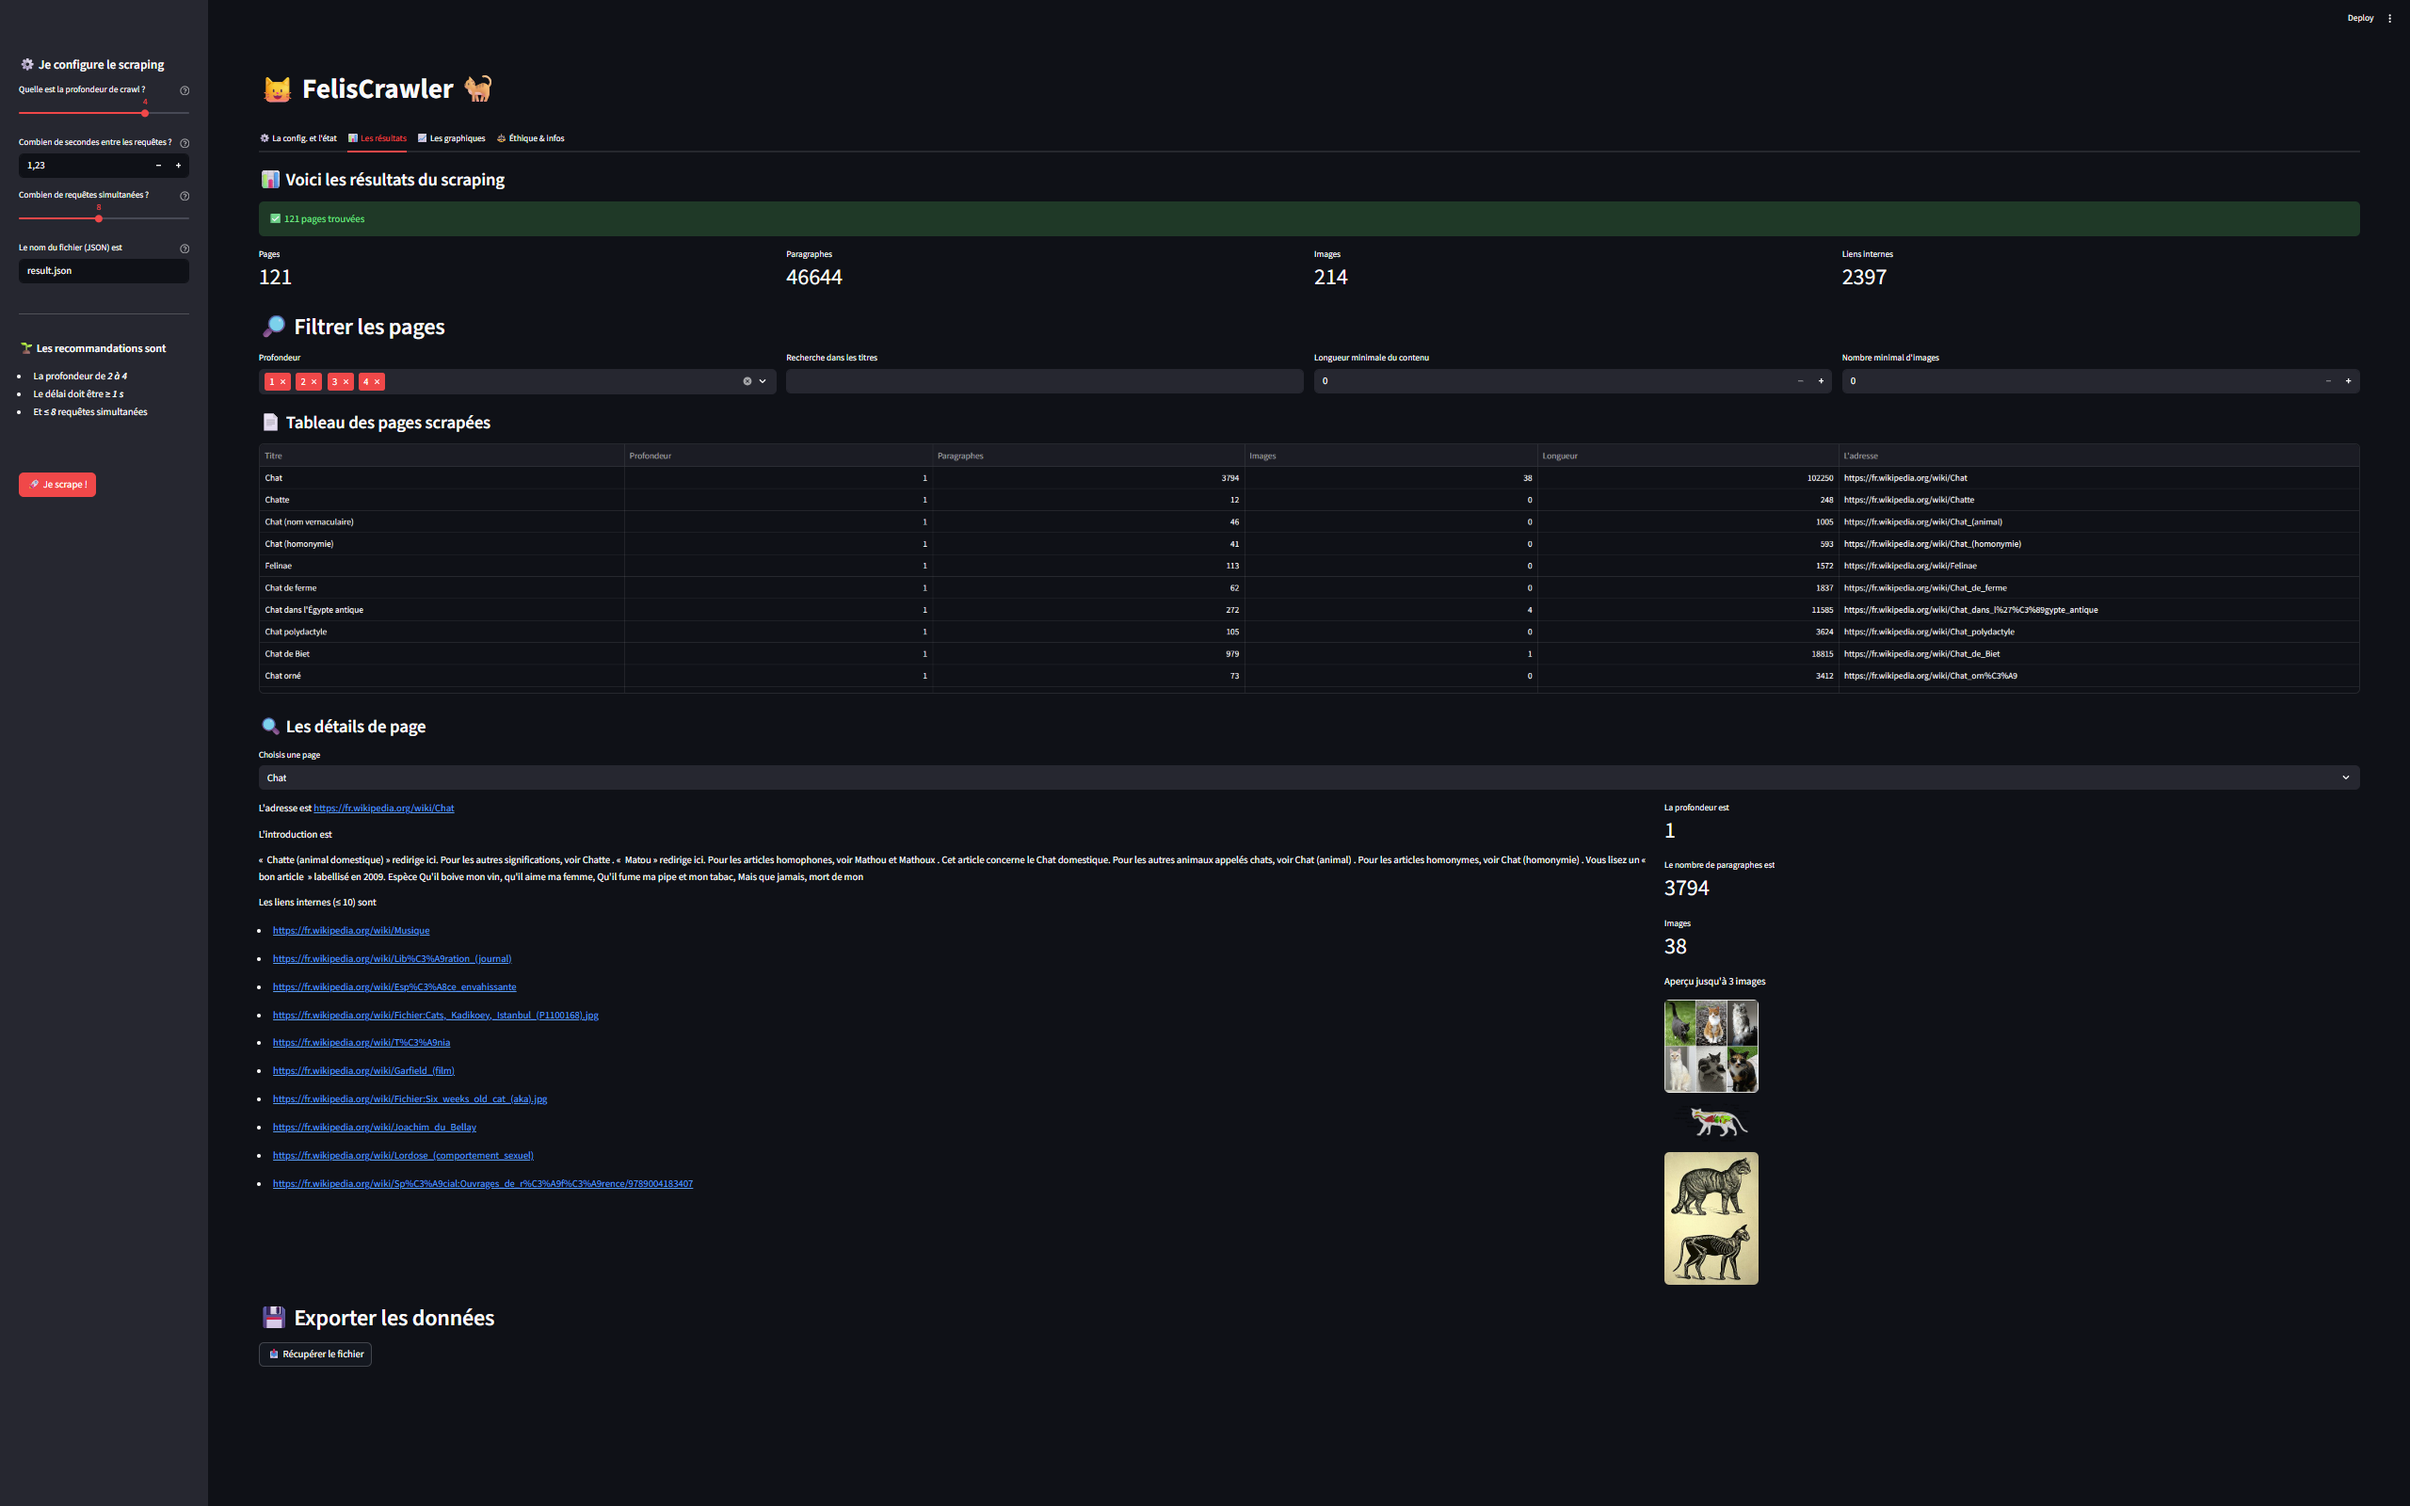
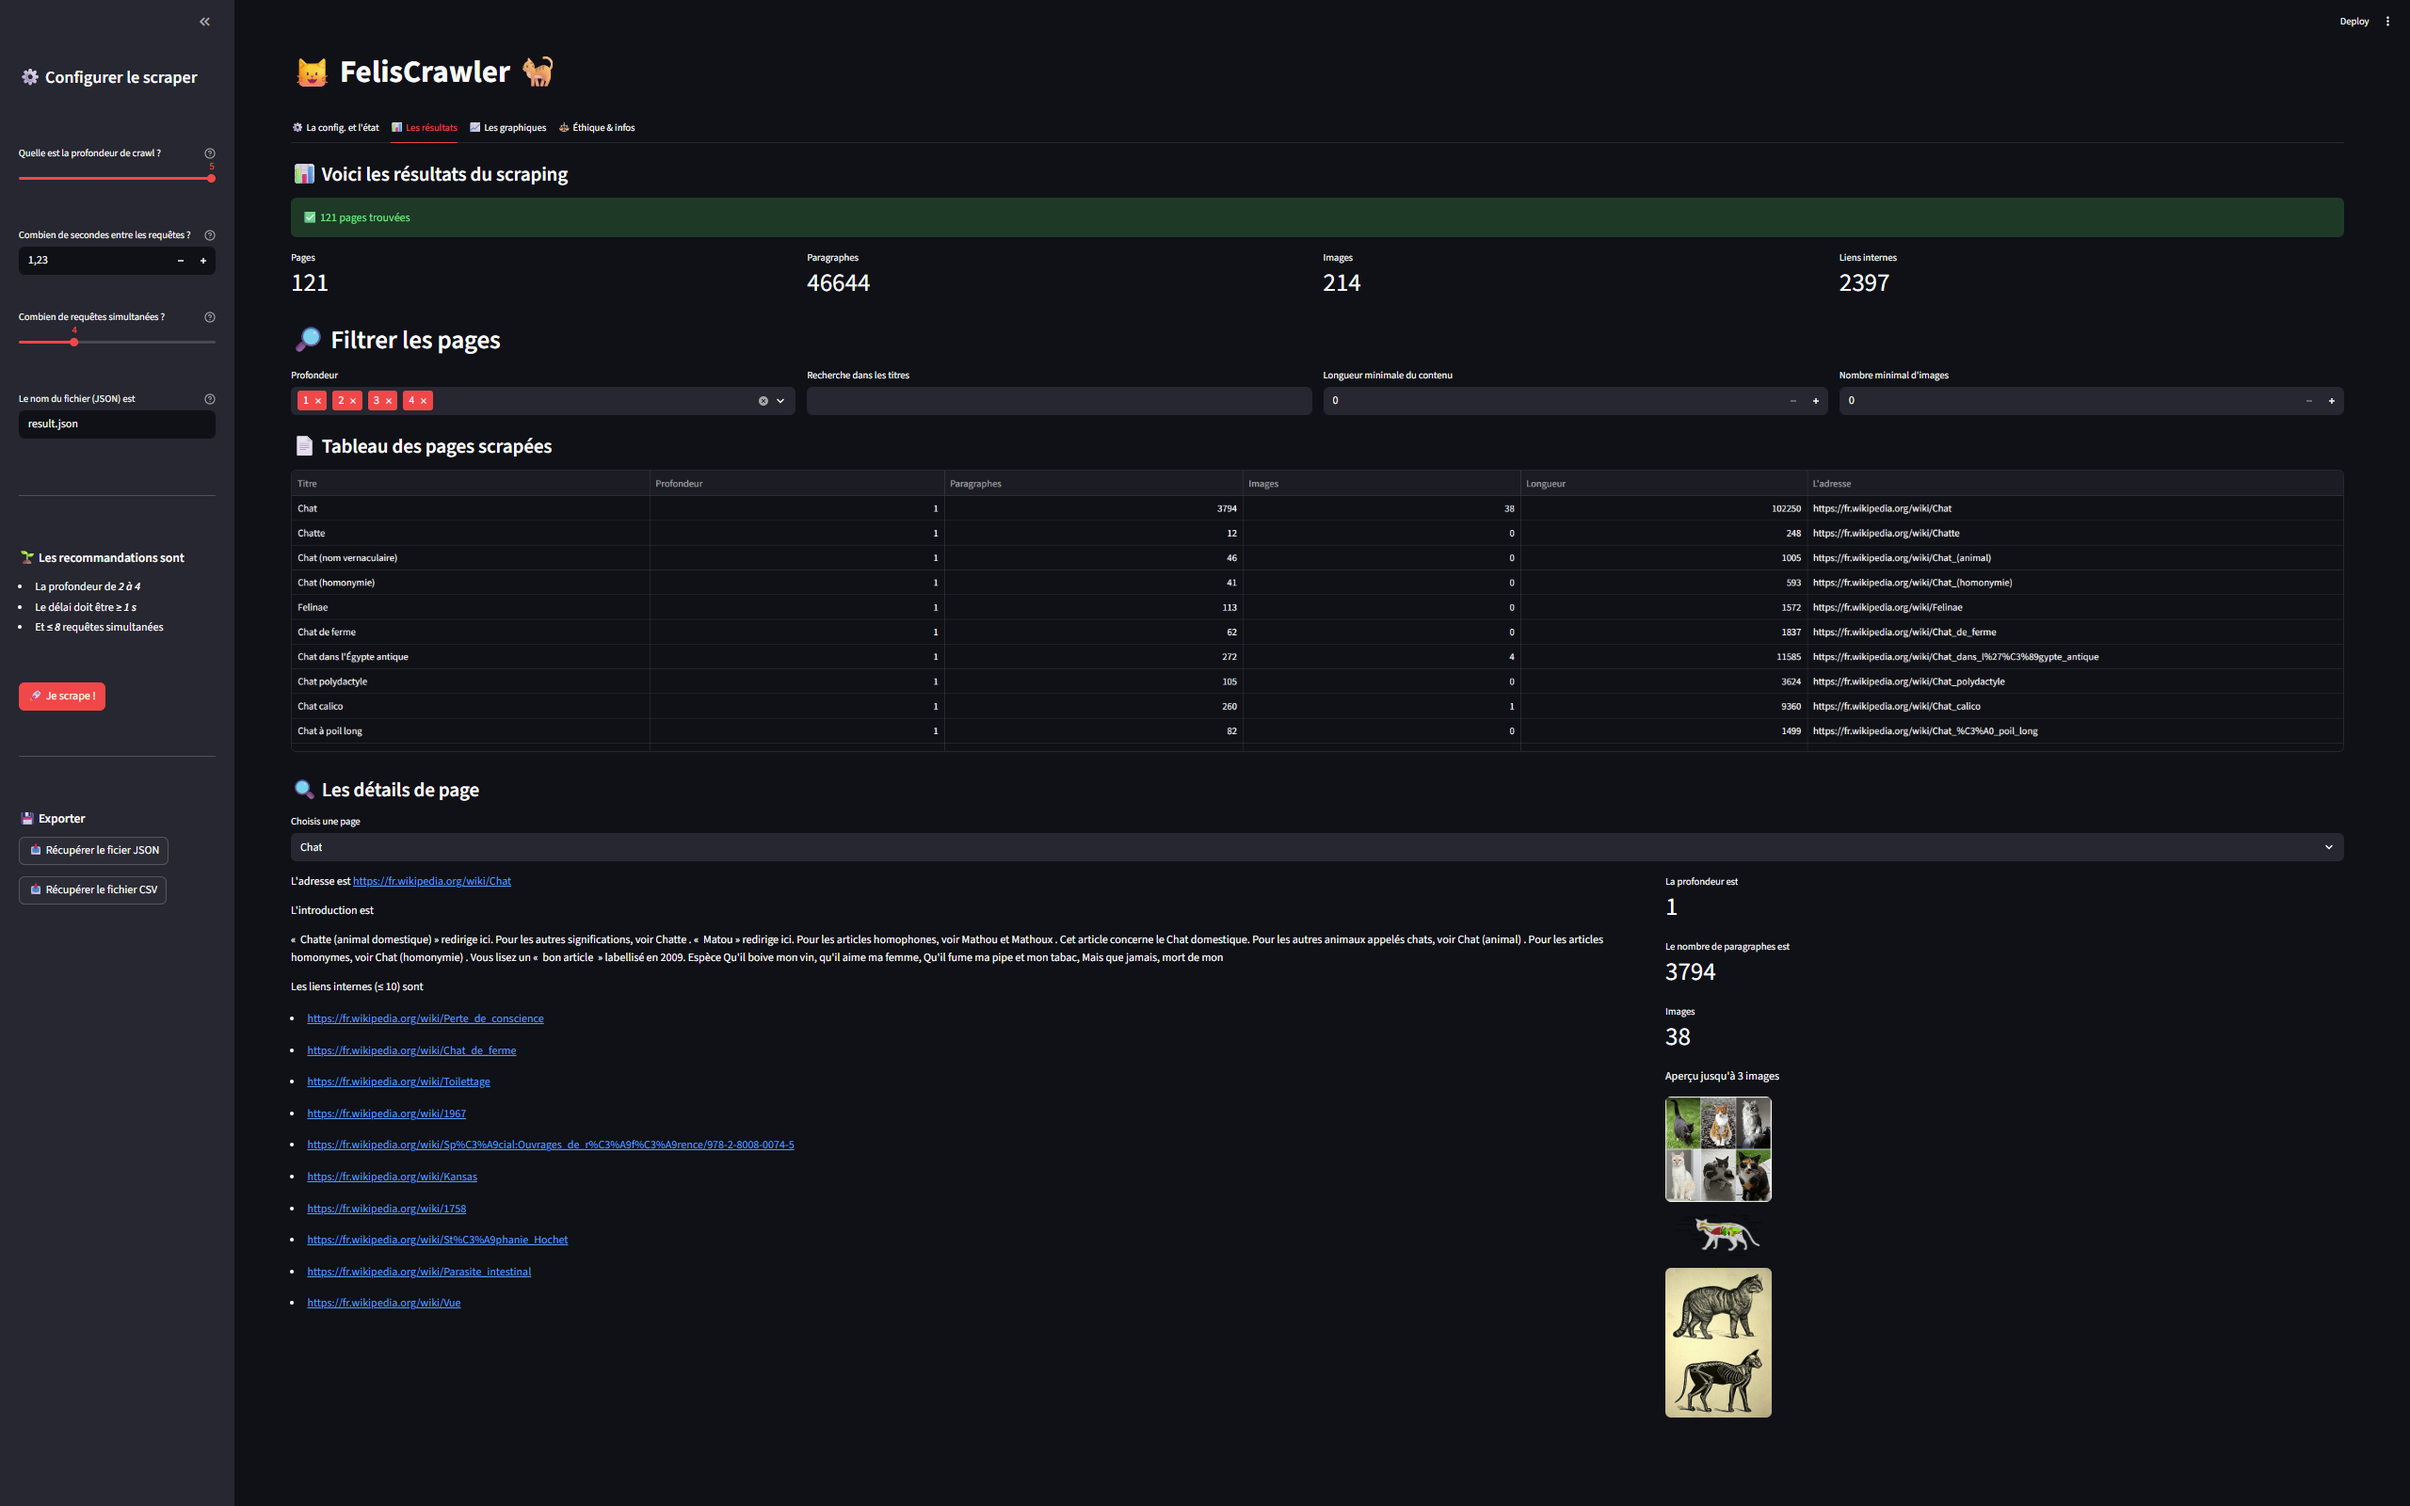
✨ FelisCrawler

diff --git a/projects/felisCrawler/wikipedia/wikipedia/spiders/app.py b/projects/felisCrawler/wikipedia/wikipedia/spiders/app.py
@@ -14,7 +14,7 @@ st.set_page_config(
     layout="wide"
 )
 
-st.title("🐱 FelisCrawler 🐈")
+st.title("🐱 **FelisCrawler** 🐈")
 st.markdown("")
 
 # Initialiser la session
@@ -23,8 +23,35 @@ if "scraping" not in st.session_state:
 if "last_output" not in st.session_state:
     st.session_state["last_output"] = None
 
+# État pour la fenêtre de confirmation de téléchargement
+if "show_download_modal" not in st.session_state:
+    st.session_state["show_download_modal"] = False
+if "download_info" not in st.session_state:
+    st.session_state["download_info"] = {}
+
+# Utilitaire pour nommer le CSV à partir du JSON
+def _csv_name(json_name: str) -> str:
+    try:
+        p = Path(json_name)
+        return str(p.with_suffix(".csv"))
+    except Exception:
+        return (json_name.rsplit(".", 1)[0] if "." in json_name else json_name) + ".csv"
+
+# Ouvre la modale de confirmation
+def _open_download_modal(file_name: str, kind: str, server_hint: str | None = None):
+    st.session_state["download_info"] = {
+        "kind": kind,
+        "file_name": file_name,
+        "icon": "https://upload.wikimedia.org/wikipedia/commons/c/c6/.csv_icon.svg" if kind == "csv"
+                else "https://upload.wikimedia.org/wikipedia/commons/c/c9/JSON_vector_logo.svg",
+        "server_hint": server_hint or ""
+    }
+    st.session_state["show_download_modal"] = True
+
 # Sidebar des paramètres
-st.sidebar.header("⚙ Je configure le scraping")
+st.sidebar.title("⚙ Configurer le scraper")
+st.sidebar.header(" ") # espacement
+st.sidebar.header(" ") # espacement
 
 depth_limit = st.sidebar.slider(
     "Quelle est la profondeur de crawl ?",
@@ -33,6 +60,8 @@ depth_limit = st.sidebar.slider(
     value    = 4,
     help     = "C'est le nombre de niveaux de liens à suivre. Plus c'est élevé, plus ça consomme de ressources."
 )
+
+st.sidebar.header(" ") # espacement
 
 download_delay = st.sidebar.number_input(
     "Combien de secondes entre les requêtes ?",
@@ -43,6 +72,8 @@ download_delay = st.sidebar.number_input(
     help       = "Temps d'attente entre chaque requête HTTP. Il est recommandé d'être ≥ 1 s pour respecter les serveurs."
 )
 
+st.sidebar.header(" ") # espacement
+
 concurrent_requests = st.sidebar.slider(
     "Combien de requêtes simultanées ?",
     min_value       =  1,
@@ -51,29 +82,38 @@ concurrent_requests = st.sidebar.slider(
     help            = "Plus il y a de requêtes en parallèle, plus le serveur est chargé."
 )
 
+st.sidebar.header(" ") # espacement
+
 output_file = st.sidebar.text_input(
     "Le nom du fichier (JSON) est",
     value   = "result.json",
     help    = "Nom du fichier JSON où sauvegarder les résultats du scraping."
 )
+st.sidebar.header(" ") # espacement
 
 st.sidebar.markdown("___")
+st.sidebar.markdown(" ") # Espacement
+st.sidebar.markdown(" ") # Espacement
 st.sidebar.markdown("### 🌱 Les recommandations sont")
 st.sidebar.markdown(
     "* La profondeur de **_2 à 4_**\n"
     "* Le délai doit être **_≥ 1 s_**\n"
     "* Et **_≤ 8_** requêtes simultanées\n"
 )
-st.sidebar.markdown("<br><br>", unsafe_allow_html=True)
-
+st.sidebar.markdown(" ") # Espacement
+st.sidebar.markdown(" ") # Espacement
+st.sidebar.markdown(" ") # Espacement
 # Bouton pour crawler
 if st.sidebar.button("🚀 Je scrape !", type="primary"):
     st.session_state["scraping"]   = True
     st.session_state["start_time"] = time.time()
 
+    output_file_csv = _csv_name(output_file)
+
     cmd = [
         "scrapy" , "runspider" , "wikichat_spider.py",
         "-O", output_file,
+        "-O", output_file_csv,  # sortie CSV en parallèle
         "-s", f"DEPTH_LIMIT={depth_limit}",
         "-s", f"DOWNLOAD_DELAY={download_delay}",
         "-s", f"CONCURRENT_REQUESTS={concurrent_requests}",
@@ -93,9 +133,12 @@ if st.sidebar.button("🚀 Je scrape !", type="primary"):
         progress       = 0
 
         try:
-            p = Path(output_file)
-            if p.exists():
-                p.unlink()
+            p_json = Path(output_file)
+            p_csv  = Path(output_file_csv)
+            if p_json.exists():
+                p_json.unlink()
+            if p_csv.exists():
+                p_csv.unlink()
         except Exception as _:
             pass
 
@@ -169,6 +212,14 @@ if output_path.exists():
                 })
 
             df = pd.DataFrame(df_data)
+
+            # fallback : garantir un CSV si Scrapy ne l'a pas écrit
+            try:
+                csv_fallback = _csv_name(output_file)
+                if len(df) and not Path(csv_fallback).exists():
+                    df.to_csv(csv_fallback, index=False, encoding="utf-8-sig")
+            except Exception:
+                pass
 
     except json.JSONDecodeError:
         st.error("❌ Le fichier de résultats est vide ou invalide. Lance un scraping.")
@@ -328,21 +379,12 @@ with tab_results:
                             except Exception:
                                 st.text(img)
 
-        st.markdown("## 💾 Exporter les données")
-        coldl1, coldl2 = st.columns(2)
-
-        with coldl1:
-            st.download_button(
-                label="📥 Récupérer le fichier",
-                data=json.dumps(data, indent=2, ensure_ascii=False),
-                file_name=f"scraping_{time.strftime('%Y%m%d_%H%M%S')}.json",
-                mime="application/json",
-            )
+        # (Section d'export retirée de l'onglet : déplacée dans la sidebar)
 
     else:
         st.info("# ℹ Il n'y a pas de résultat. Tu peux lancer le scraper.")
 
-# 3ème onglet : Les graphiques
+# 3ème onglet Les graphiques
 with tab_plots:
     st.subheader("📈 Les pages scrapées")
 
@@ -418,5 +460,57 @@ with tab_ethics:
 
     st.markdown("___")
     st.markdown(
-        "🐱 **FelisCrawler** | Scrapy et Streamlit — C'est un projet pédagogique. Il n'est pas destiné à une exploitation massive."
+        "🐱 **FelisCrawler** | _Scrapy et Streamlit_ — C'est un projet pédagogique. Il n'est pas destiné à une exploitation massive."
     )
+
+# Récupérer les données
+st.sidebar.markdown(" ")
+st.sidebar.markdown("___")
+st.sidebar.markdown(" ")
+st.sidebar.markdown(" ")
+st.sidebar.markdown("### 💾 Exporter")
+
+if data is not None or (df is not None and not df.empty):
+    _json_bytes = (json.dumps(data, indent=2, ensure_ascii=False).encode("utf-8") if data is not None else b"")
+    _json_name  = f"scraping_{time.strftime('%Y%m%d_%H%M%S')}.json"
+
+    clicked_json = st.sidebar.download_button(
+        label="📥 Récupérer le ficier JSON",
+        data=_json_bytes,
+        file_name=_json_name,
+        mime="application/json",
+        disabled=not (data is not None),
+        key="dl_json_btn"
+    )
+
+    _csv_name_now = f"scraping_{time.strftime('%Y%m%d_%H%M%S')}.csv"
+    _csv_bytes    = (df.to_csv(index=False, encoding="utf-8-sig") if df is not None else "").encode("utf-8-sig") if df is not None else b""
+
+    clicked_csv = st.sidebar.download_button(
+        label="📥 Récupérer le fichier CSV",
+        data=_csv_bytes,
+        file_name=_csv_name_now,
+        mime="text/csv",
+        disabled=not (df is not None and not df.empty),
+        key="dl_csv_btn"
+    )
+
+    if clicked_json:
+        _open_download_modal(
+            file_name=_json_name,
+            kind="json",
+            server_hint="Généré en mémoire. Il n'y a rien côté serveur."
+        )
+        st.rerun()
+
+    if clicked_csv:
+        possible_server_csv = Path(_csv_name(output_file))
+        server_hint = str(possible_server_csv.resolve()) if possible_server_csv.exists() else "Généré en mémoire. Il n'y a rien côté serveur."
+        _open_download_modal(
+            file_name=_csv_name_now,
+            kind="csv",
+            server_hint=server_hint
+        )
+        st.rerun()
+else:
+    st.sidebar.info("Aucun résultat à exporter pour l’instant.")

diff --git a/projects/felisCrawler/readme.md b/projects/felisCrawler/readme.md
@@ -51,18 +51,18 @@ scraper tous les articles Wikipédia (en français) liés aux chats et félins. 
 ## **L'utiliser**
 Il faut Python 3.9 ou plus récent. Scrapy, Streamlit et Pandas.
 ### **Pour installer les dépendances**
-```py
+```sh
 pip install scrapy streamlit pandas
 ```
 Démarrage de l’application :
-```py
+```sh
 streamlit run app.py
 ```
 ### **Depuis l’interface ouverte dans un navigateur**, vous pouvez
 * Paramétrer les options de scraping dans la barre latérale
 * Lancer le scraping
 * Explorer les données collectées dans les onglets
-* Filtrer, rechercher, et exporter les résultats au format JSON
+* Filtrer, rechercher, et exporter les résultats au format JSON et CSV
 ## **Les spécificités du spider**
 * Configuration fine par attributs Scrapy (profondeur, délais, concurrent, User-Agent)
 * Respect du fichier '_robots.txt_'
@@ -71,15 +71,17 @@ streamlit run app.py
 * Compatible avec tous les formats d’export supportés (FEEDS Scrapy)
 ## Visualiser et analyser
 Il y a un tableau filtrable pour sélectionner les pages par profondeur, nombre d’images, longueur, titre. Les détails de chaque page.  
-Des graphiques concerant
+Des graphiques concernant
 * La répartition des pages par profondeur de crawl
 * La relation longueur de texte/nombre d’images (scatter)
 * La distribution du nombre de paragraphes par page
 ## **Éthique, gouvernance et bonnes pratiques**
-Le scraping limité à un usage expérimental et pédagogique. Il respect explicitement les règles Wikipédia (licence CC BY-SA, attribution requise). Il n'y a pas de collecte de données personnelles dans le périmètre du projet. 
+Le scraping limité à un usage expérimental et pédagogique. Il respecte explicitement les règles Wikipédia (licence CC BY-SA, attribution requise). Il n'y a pas de collecte de données personnelles dans le périmètre du projet. 
 Le respect de l’environnement est possible par la modulation des paramètres pour minimiser l’impact carbone et éviter de surcharger le serveur.
 
 ![screenshot](assets/screenshot.png)
+
+![screenshot1](assets/screenshot1.png)
 ## **Références et documentation**
 [Scrapy — Spiders](https://docs.scrapy.org/en/latest/topics/spiders.html)  
 [Scrapy — Sélecteurs XPath](https://docs.scrapy.org/en/latest/topics/selectors.html)  
